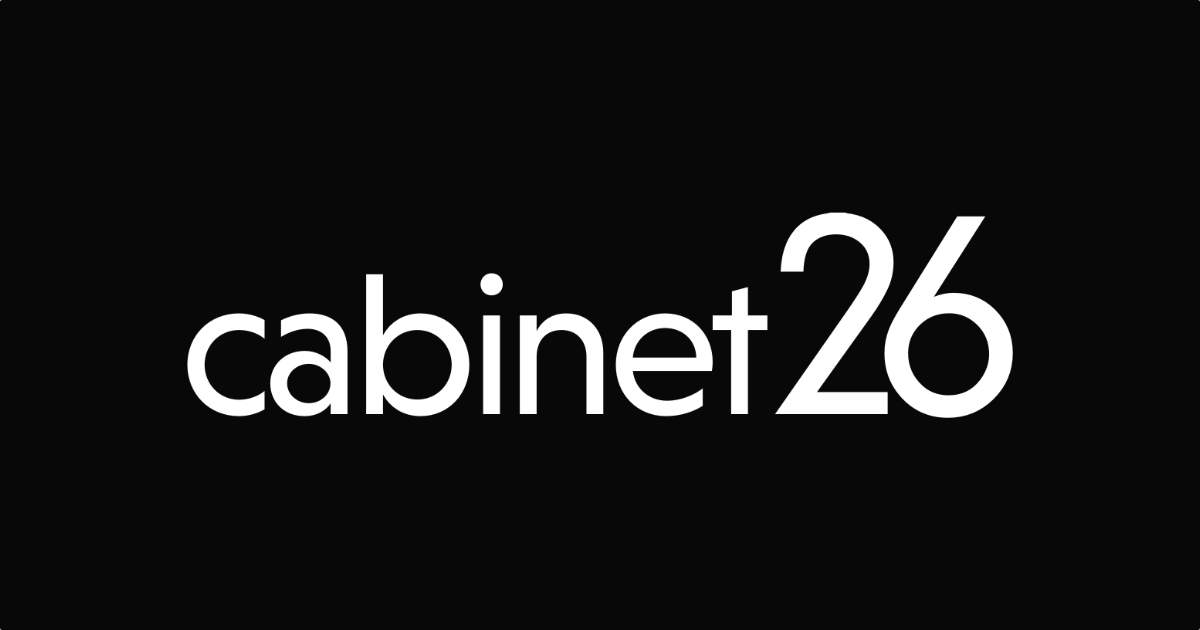
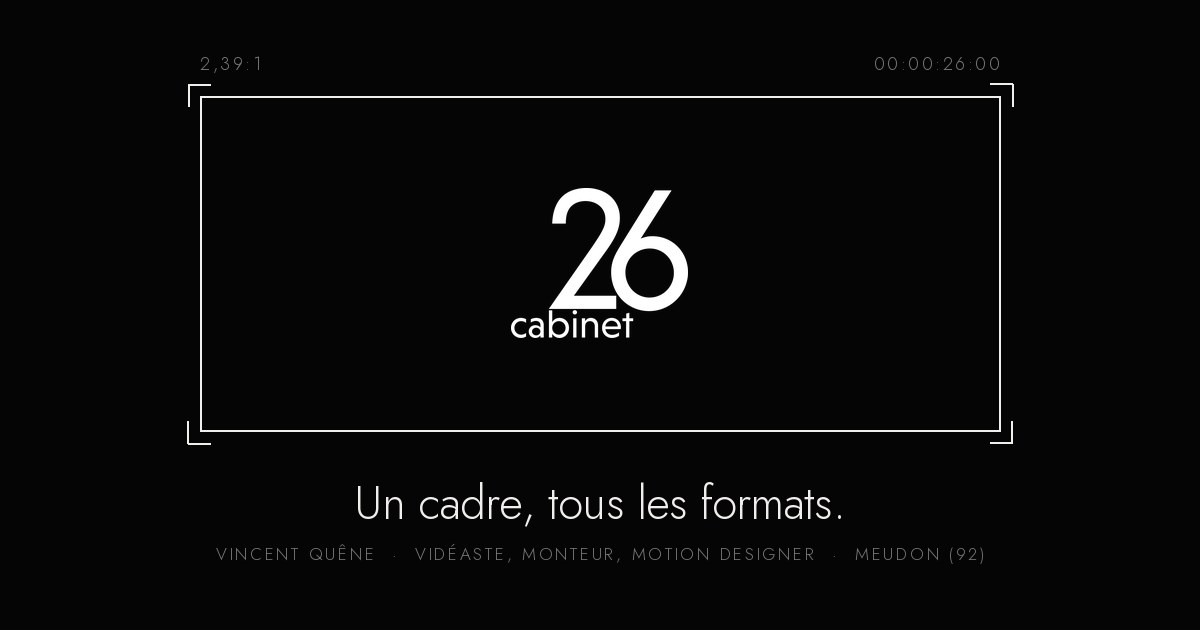
Refait la page 404 et ajoute le SEO de base
- 404 « Hors champ » dans le style du site (cadre vide, liens utiles),
  en noindex ; suppression de l'ancienne page not_found.html inutilisée.
- Nouvelle image de partage og.jpg en Jost, dans le style du site.
- Titre et description ciblés, h1, données structurées (Person,
  ProfessionalService, WebSite), og:locale et dimensions de l'image,
  textes alternatifs des vignettes.
- Vraies icônes (favicon, apple-touch-icon, 512 px) à la place du PNG
  de 3000 px ; robots.txt et sitemap.xml.

diff --git a/404.html b/404.html
@@ -3,119 +3,96 @@
 <head>
   <meta charset="UTF-8" />
   <meta name="viewport" content="width=device-width, initial-scale=1.0"/>
-  <title>404 — cabinet26</title>
-  <link rel="icon" type="image/jpeg" href="c26_b_txt.jpg" />
+  <title>Hors champ — cabinet26</title>
+  <meta name="description" content="Cette page n'existe pas sur cabinet26.com." />
+  <meta name="robots" content="noindex">
+  <meta name="theme-color" content="#050505">
+  <link rel="icon" type="image/png" sizes="48x48" href="/favicon.png" />
+  <link rel="apple-touch-icon" href="/apple-touch-icon.png" />
   <link rel="preconnect" href="https://fonts.googleapis.com" />
   <link rel="preconnect" href="https://fonts.gstatic.com" crossorigin />
-  <!-- Open Graph (Facebook, LinkedIn, etc.) -->
-<meta property="og:type" content="website">
-<meta property="og:site_name" content="cabinet26">
-<meta property="og:title" content="cabinet26 — transmission pop-culturelle">
-<meta property="og:description" content="cabinet26 — transmission pop-culturelle. Ludokino, toonesque., Caligosto & Don Skellington.">
-<meta property="og:url" content="https://cabinet26.com/">
-<meta property="og:image" content="https://cabinet26.com/og.jpg">
-
-<!-- Twitter / X Card -->
-<meta name="twitter:card" content="summary_large_image">
-<meta name="twitter:title" content="cabinet26 — transmission pop-culturelle">
-<meta name="twitter:description" content="cabinet26 — transmission pop-culturelle. Ludokino, toonesque., Caligosto & Don Skellington.">
-<meta name="twitter:image" content="https://cabinet26.com/og.jpg">
   <link href="https://fonts.googleapis.com/css2?family=Jost:wght@300;400;500&display=swap" rel="stylesheet" />
   <style>
+    :root { --bg: #050505; --txt: #f0efeb; --muted: #777; }
     * { margin: 0; padding: 0; box-sizing: border-box; }
-
-    html, body {
-      height: 100%;
-      background: #080808;
-      color: #f0efeb;
-      font-family: 'Jost', 'Helvetica Neue', Helvetica, Arial, sans-serif;
-      font-weight: 300;
-    }
-
+    html, body { height: 100%; }
     body {
-      display: flex;
-      flex-direction: column;
-      justify-content: space-between;
-      min-height: 100vh;
-      padding: 2.5rem;
+      background: var(--bg); color: var(--txt);
+      font-family: 'Jost', 'Helvetica Neue', Helvetica, Arial, sans-serif; font-weight: 300;
+      display: flex; flex-direction: column; min-height: 100vh; min-height: 100svh;
+      padding: 1.6rem clamp(1rem, 3vw, 2.5rem) 2rem; -webkit-font-smoothing: antialiased;
     }
+    a { color: inherit; }
 
-    header {
-      display: flex;
-      justify-content: space-between;
-      align-items: flex-start;
+    body::before {
+      content: ""; position: fixed; inset: 0; pointer-events: none; opacity: .1;
+      background-image:
+        repeating-linear-gradient(0deg, rgba(255,255,255,.08) 0, rgba(255,255,255,.08) 1px, transparent 1px, transparent 3px),
+        repeating-linear-gradient(90deg, rgba(255,255,255,.03) 0, rgba(255,255,255,.03) 1px, transparent 1px, transparent 4px);
+      mix-blend-mode: screen; animation: grain 2.5s steps(4) infinite;
     }
+    @keyframes grain { 25% { transform: translate(-3px,-4px); } 50% { transform: translate(2px,3px); } 75% { transform: translate(-2px,2px); } }
 
-    header a {
-      font-weight: 500;
-      font-size: 0.85rem;
-      letter-spacing: 0.04em;
-      color: #f0efeb;
-      text-decoration: none;
-      transition: opacity 0.2s;
+    header { display: flex; justify-content: space-between; align-items: center; }
+    header .name { font-weight: 500; font-size: .85rem; letter-spacing: .04em; text-decoration: none; }
+    header .back { font-size: .78rem; letter-spacing: .06em; color: #888; text-decoration: none; transition: color .2s; }
+    header .back:hover { color: var(--txt); }
+
+    main { flex: 1; display: flex; flex-direction: column; align-items: center; justify-content: center; text-align: center; padding: 3rem 0; }
+
+    .frame {
+      position: relative; width: min(46rem, 86vw); aspect-ratio: 2.39 / 1;
+      border: 1px dashed rgba(240,239,235,.35); display: grid; place-items: center;
     }
+    .frame i { position: absolute; width: 14px; height: 14px; border-color: var(--txt); border-style: solid; }
+    .frame i:nth-of-type(1) { left: -9px; top: -9px; border-width: 1px 0 0 1px; }
+    .frame i:nth-of-type(2) { right: -9px; top: -9px; border-width: 1px 1px 0 0; }
+    .frame i:nth-of-type(3) { left: -9px; bottom: -9px; border-width: 0 0 1px 1px; }
+    .frame i:nth-of-type(4) { right: -9px; bottom: -9px; border-width: 0 1px 1px 0; }
+    .frame .lbl { position: absolute; top: -1.7rem; font-size: .66rem; letter-spacing: .14em; text-transform: uppercase; color: var(--muted); }
+    .frame .lbl.l { left: 0; }
+    .frame .lbl.r { right: 0; animation: blink 1.2s steps(2) infinite; }
+    @keyframes blink { 50% { opacity: .25; } }
+    .frame .code { font-size: clamp(3rem, 12vw, 7rem); font-weight: 300; letter-spacing: -.04em; line-height: 1; color: #2a2a2a; }
 
-    header a:hover { opacity: 0.4; }
+    h1 { font-weight: 400; font-size: clamp(1.15rem, 2vw, 1.5rem); letter-spacing: -.01em; margin-top: 3rem; }
+    p { margin-top: .6rem; font-size: 1rem; line-height: 1.55; color: #bdbbb5; max-width: 34rem; }
+    .links { display: flex; flex-wrap: wrap; justify-content: center; gap: .6rem 1.8rem; margin-top: 2rem; }
+    .links a { font-size: .75rem; letter-spacing: .1em; text-transform: uppercase; color: var(--muted); text-decoration: none; transition: color .2s; }
+    .links a:hover { color: var(--txt); }
+    .links a.main { color: var(--txt); border-bottom: 1px solid #444; padding-bottom: 2px; }
 
-    header .back {
-      font-weight: 300;
-      font-size: 0.78rem;
-      letter-spacing: 0.06em;
-      color: #666;
-      transition: color 0.2s;
-    }
+    footer { font-size: .75rem; letter-spacing: .04em; color: #444; }
 
-    header .back:hover {
-      color: #f0efeb;
-      opacity: 1;
-    }
-
-    main {
-      flex: 1;
-      display: flex;
-      flex-direction: column;
-      justify-content: center;
-    }
-
-    .code {
-      font-size: clamp(5rem, 20vw, 14rem);
-      font-weight: 500;
-      letter-spacing: -0.04em;
-      line-height: 1;
-      color: #1a1a1a;
-      user-select: none;
-    }
-
-    .message {
-      font-size: 0.78rem;
-      font-weight: 300;
-      letter-spacing: 0.1em;
-      text-transform: uppercase;
-      color: #444;
-      margin-top: 1.5rem;
-    }
-
-    footer {
-      font-size: 0.75rem;
-      font-weight: 300;
-      letter-spacing: 0.04em;
-      color: #333;
+    @media (prefers-reduced-motion: reduce) {
+      body::before, .frame .lbl.r { animation: none; }
     }
   </style>
 </head>
 <body>
 
   <header>
-    <a href="/">cabinet26</a>
+    <a class="name" href="/">cabinet26</a>
     <a class="back" href="/">← retour</a>
   </header>
 
   <main>
-    <p class="code">404</p>
-    <p class="message">cette page n'existe pas</p>
+    <div class="frame" aria-hidden="true">
+      <i></i><i></i><i></i><i></i>
+      <span class="lbl l">404</span>
+      <span class="lbl r">--:--:--:--</span>
+      <span class="code">404</span>
+    </div>
+    <h1>Hors champ.</h1>
+    <p>Cette page n'existe pas, ou plus. Elle a peut-être été coupée au montage.</p>
+    <div class="links">
+      <a class="main" href="/">Revenir à l'accueil</a>
+      <a href="/#travaux">Réalisations</a>
+      <a href="mailto:vincent@cabinet26.com">vincent@cabinet26.com</a>
+    </div>
   </main>
 
-  <footer>© cabinet26</footer>
+  <footer>© cabinet26 · Vincent Quêne</footer>
 
 </body>
 </html>

diff --git a/index.html b/index.html
@@ -3,23 +3,80 @@
 <head>
   <meta charset="UTF-8" />
   <meta name="viewport" content="width=device-width, initial-scale=1.0"/>
-  <title>cabinet26 — Vincent Quêne, vidéaste indépendant</title>
-  <meta name="description" content="cabinet26 — l'activité indépendante de Vincent Quêne, vidéaste, monteur et motion designer. Réalisation, montage, étalonnage, réseaux, motion, live, son. Un cadre, tous les formats." />
-  <meta name="robots" content="index,follow">
+  <title>Vincent Quêne — vidéaste freelance, monteur & motion designer | cabinet26</title>
+  <meta name="description" content="Vidéaste freelance en Île-de-France : réalisation, tournage, montage, étalonnage, motion design, réseaux et live. Un seul interlocuteur, du tournage à l'export." />
+  <meta name="author" content="Vincent Quêne">
+  <meta name="robots" content="index,follow,max-image-preview:large">
+  <meta name="theme-color" content="#050505">
   <link rel="canonical" href="https://cabinet26.com/">
 
   <meta property="og:type" content="website">
+  <meta property="og:locale" content="fr_FR">
   <meta property="og:site_name" content="cabinet26">
   <meta property="og:title" content="cabinet26 — un cadre, tous les formats">
-  <meta property="og:description" content="Vincent Quêne, vidéaste, monteur et motion designer indépendant. Réalisation, montage, réseaux, motion, live, son.">
+  <meta property="og:description" content="Vincent Quêne, vidéaste, monteur et motion designer indépendant. Réalisation, montage, réseaux, motion, live.">
   <meta property="og:url" content="https://cabinet26.com/">
   <meta property="og:image" content="https://cabinet26.com/og.jpg">
+  <meta property="og:image:width" content="1200">
+  <meta property="og:image:height" content="630">
+  <meta property="og:image:alt" content="cabinet26 — Un cadre, tous les formats. Vincent Quêne, vidéaste, monteur, motion designer.">
   <meta name="twitter:card" content="summary_large_image">
   <meta name="twitter:title" content="cabinet26 — un cadre, tous les formats">
   <meta name="twitter:description" content="Vincent Quêne, vidéaste, monteur et motion designer indépendant.">
   <meta name="twitter:image" content="https://cabinet26.com/og.jpg">
 
-  <link rel="icon" type="image/png" href="c26_b_txt_background.png" />
+  <link rel="icon" type="image/png" sizes="48x48" href="favicon.png" />
+  <link rel="icon" type="image/png" sizes="512x512" href="icon-512.png" />
+  <link rel="apple-touch-icon" href="apple-touch-icon.png" />
+
+  <script type="application/ld+json">
+  {
+    "@context": "https://schema.org",
+    "@graph": [
+      {
+        "@type": "Person",
+        "@id": "https://cabinet26.com/#vincent",
+        "name": "Vincent Quêne",
+        "jobTitle": "Vidéaste, monteur et motion designer",
+        "url": "https://cabinet26.com/",
+        "email": "mailto:vincent@cabinet26.com",
+        "address": { "@type": "PostalAddress", "addressLocality": "Meudon", "postalCode": "92190", "addressRegion": "Île-de-France", "addressCountry": "FR" },
+        "alumniOf": { "@type": "EducationalOrganization", "name": "ESRA Paris" },
+        "worksFor": { "@id": "https://cabinet26.com/#cabinet26" },
+        "knowsLanguage": ["fr", "en"],
+        "sameAs": [
+          "https://vincentimes.fr/",
+          "https://www.linkedin.com/in/vincentimes",
+          "https://www.imdb.com/name/nm9590204/",
+          "https://instagram.com/vincentimes",
+          "https://youtube.com/@vincentimesfr"
+        ]
+      },
+      {
+        "@type": "ProfessionalService",
+        "@id": "https://cabinet26.com/#cabinet26",
+        "name": "cabinet26",
+        "description": "Vidéaste freelance en Île-de-France : réalisation, tournage, montage, étalonnage, motion design, réseaux et live. Un seul interlocuteur, du tournage à l'export.",
+        "url": "https://cabinet26.com/",
+        "logo": "https://cabinet26.com/icon-512.png",
+        "image": "https://cabinet26.com/og.jpg",
+        "email": "vincent@cabinet26.com",
+        "founder": { "@id": "https://cabinet26.com/#vincent" },
+        "address": { "@type": "PostalAddress", "addressLocality": "Meudon", "postalCode": "92190", "addressRegion": "Île-de-France", "addressCountry": "FR" },
+        "areaServed": [{ "@type": "AdministrativeArea", "name": "Île-de-France" }, { "@type": "Country", "name": "France" }],
+        "knowsAbout": ["Réalisation vidéo", "Tournage", "Montage vidéo", "Étalonnage", "Motion design", "Contenus pour les réseaux sociaux", "Live streaming", "Interview vidéo", "Clip musical"]
+      },
+      {
+        "@type": "WebSite",
+        "@id": "https://cabinet26.com/#site",
+        "url": "https://cabinet26.com/",
+        "name": "cabinet26",
+        "inLanguage": "fr-FR",
+        "publisher": { "@id": "https://cabinet26.com/#cabinet26" }
+      }
+    ]
+  }
+  </script>
   <link rel="preconnect" href="https://fonts.googleapis.com" />
   <link rel="preconnect" href="https://fonts.gstatic.com" crossorigin />
   <link href="https://fonts.googleapis.com/css2?family=Jost:wght@300;400;500&display=swap" rel="stylesheet" />
@@ -40,6 +97,7 @@
       -webkit-font-smoothing: antialiased;
     }
     a { color: inherit; }
+    .sr-only { position: absolute; width: 1px; height: 1px; padding: 0; margin: -1px; overflow: hidden; clip: rect(0 0 0 0); white-space: nowrap; border: 0; }
     ::selection { background: var(--txt); color: var(--bg); }
 
     /* grain léger, comme avant */
@@ -253,6 +311,7 @@
 </header>
 
 <main>
+  <h1 class="sr-only">Vincent Quêne, vidéaste freelance, monteur et motion designer en Île-de-France — cabinet26</h1>
   <section id="reel" aria-label="Services">
     <div class="stage">
       <div class="frame-zone">
@@ -491,7 +550,7 @@ const WORKS = [
   { toon: 1, img: 'toonesque-over-the-garden-wall', t: 'Over the Garden Wall, le chef-d\'œuvre d\'Halloween', m: 'toonesque.', eps: [['xpJjlingy0k']] },
 ];
 const tile = (w, i) => `<button class="work" data-w="${i}">
-  <span class="pic"><img src="img/${w.img}.webp" alt="" loading="lazy" decoding="async"></span>
+  <span class="pic"><img src="img/${w.img}.webp" alt="${w.t.replace(/"/g, '&quot;')} — ${w.toon ? 'toonesque.' : w.m}" width="1280" height="720" loading="lazy" decoding="async"></span>
   <span class="t">${w.t}</span>${w.toon ? '' : `<span class="m">${w.y} · ${w.m}${w.eps.length > 1 ? ` · ${w.eps.length} épisodes` : ''}</span>`}</button>`;
 $('works').innerHTML = WORKS.map((w, i) => w.toon ? '' : tile(w, i)).join('');
 $('toon').innerHTML = WORKS.map((w, i) => w.toon ? tile(w, i) : '').join('');
